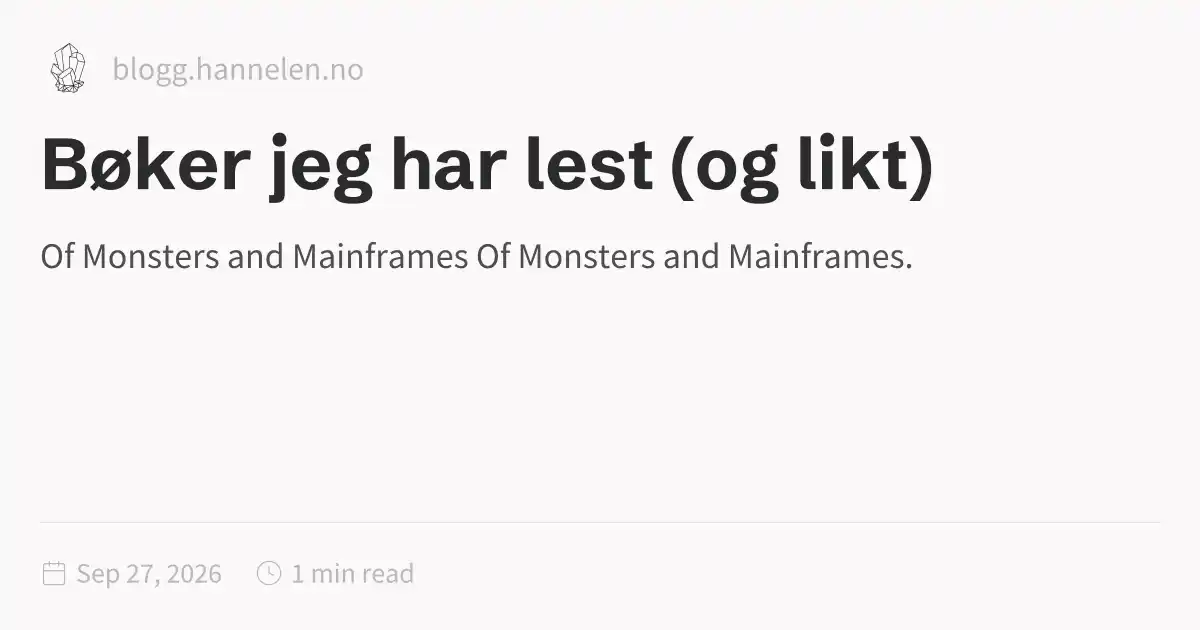
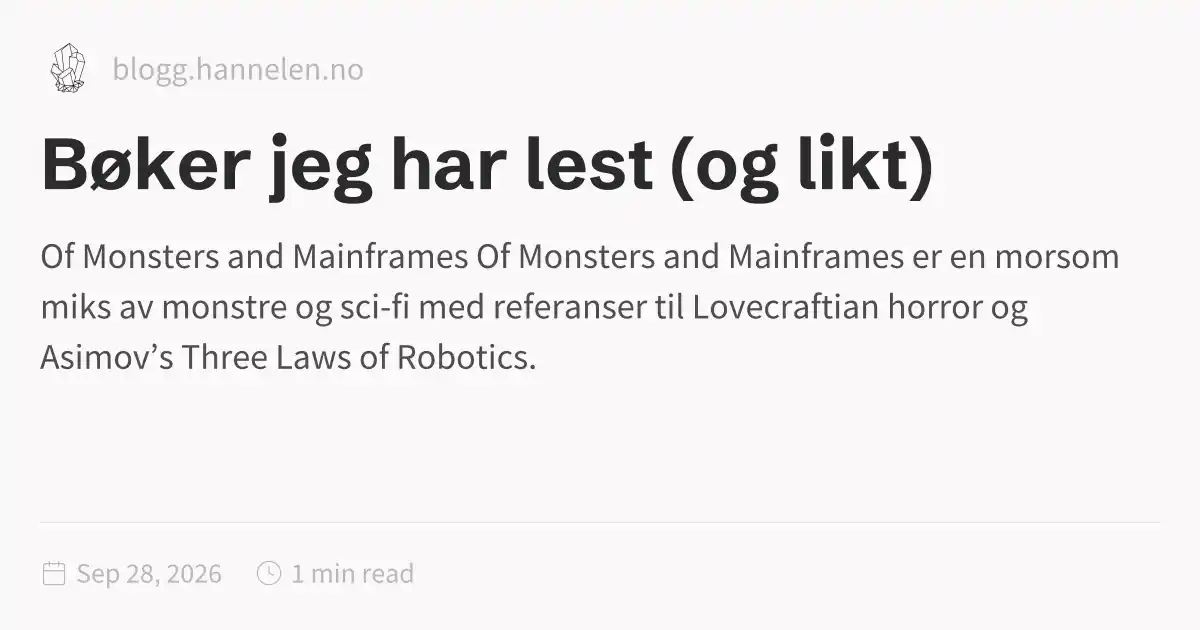
Updates

Changed region(s): [[0.0308, 0.4524, 0.8633, 0.5127], [0.0308, 0.5429, 0.4317, 0.6032], [0.74, 0.3921, 0.925, 0.4222]]

diff --git a/bøker-jeg-har-lest-(og-likt).html b/bøker-jeg-har-lest-(og-likt).html
@@ -1,7 +1,8 @@
 <!DOCTYPE html>
-<html lang="en" dir="ltr"><head><title>Bøker jeg har lest (og likt)</title><meta charset="utf-8"/><link rel="preload" href="./index-bb6c1746.css" as="style"/><link rel="preload" href="./prescript-2bfc6315.js" as="script"/><link rel="preconnect" href="https://fonts.googleapis.com"/><link rel="preconnect" href="https://fonts.gstatic.com"/><link rel="stylesheet" href="https://fonts.googleapis.com/css2?family=Schibsted Grotesk:wght@400;700&amp;family=Source Sans Pro:ital,wght@0,400;0,600;1,400;1,600&amp;family=IBM Plex Mono:wght@400;600&amp;display=swap"/><link rel="preconnect" href="https://cdnjs.cloudflare.com" crossorigin="anonymous"/><meta name="viewport" content="width=device-width, initial-scale=1.0"/><meta name="og:site_name" content="Quartz 5"/><meta property="og:title" content="Bøker jeg har lest (og likt)"/><meta property="og:type" content="website"/><meta name="twitter:card" content="summary_large_image"/><meta name="twitter:title" content="Bøker jeg har lest (og likt)"/><meta name="twitter:description" content="Of Monsters and Mainframes Of Monsters and Mainframes."/><meta property="og:description" content="Of Monsters and Mainframes Of Monsters and Mainframes."/><meta property="og:image:alt" content="Of Monsters and Mainframes Of Monsters and Mainframes."/><meta property="twitter:domain" content="blogg.hannelen.no"/><meta property="og:url" content="https://blogg.hannelen.no/bøker-jeg-har-lest-(og-likt)"/><meta property="twitter:url" content="https://blogg.hannelen.no/bøker-jeg-har-lest-(og-likt)"/><link rel="icon" href="./static/icon.png"/><meta name="description" content="Of Monsters and Mainframes Of Monsters and Mainframes."/><meta name="generator" content="Quartz"/><link href="./index-bb6c1746.css" rel="stylesheet" type="text/css" data-persist="true"/><link href="./component-735924e0.css" rel="stylesheet" type="text/css" data-persist="true"/><link href="./component-589c1cea.css" rel="stylesheet" type="text/css" data-persist="true"/><link href="./component-bbc3f7c0.css" rel="stylesheet" type="text/css" data-persist="true"/><link href="./component-2911f5d1.css" rel="stylesheet" type="text/css" data-persist="true"/><link href="./component-e427079e.css" rel="stylesheet" type="text/css" data-persist="true"/><link href="./component-53b25b2b.css" rel="stylesheet" type="text/css" data-persist="true"/><link href="./component-c93c6a44.css" rel="stylesheet" type="text/css" data-persist="true"/><link href="./component-8a06014f.css" rel="stylesheet" type="text/css" data-persist="true"/><link href="./component-77d6a441.css" rel="stylesheet" type="text/css" data-persist="true"/><link href="./component-6ee21cee.css" rel="stylesheet" type="text/css" data-persist="true"/><link href="./component-1ea6ad18.css" rel="stylesheet" type="text/css" data-persist="true"/><link href="./component-34bdfded.css" rel="stylesheet" type="text/css" data-persist="true"/><link href="./component-788c9ca3.css" rel="stylesheet" type="text/css" data-persist="true"/><link href="./component-642859cd.css" rel="stylesheet" type="text/css" data-persist="true"/><link href="./component-4abc06bd.css" rel="stylesheet" type="text/css" data-persist="true"/><link href="./component-274a3dfe.css" rel="stylesheet" type="text/css" data-persist="true"/><link href="./component-94cb6c84.css" rel="stylesheet" type="text/css" data-persist="true"/><link href="./component-58d5ff56.css" rel="stylesheet" type="text/css" data-persist="true"/><link href="./component-7262b5a7.css" rel="stylesheet" type="text/css" data-persist="true"/><link href="./static/resource-style-11d41004.css" rel="stylesheet" type="text/css" data-persist="true"/><link href="./static/resource-style-26a99b87.css" rel="stylesheet" type="text/css" data-persist="true"/><link href="./static/resource-style-a5c806d2.css" rel="stylesheet" type="text/css" data-persist="true"/><link href="./static/resource-style-6bd36952.css" rel="stylesheet" type="text/css" data-persist="true"/><link href="./static/resource-style-9857b007.css" rel="stylesheet" type="text/css" data-persist="true"/><link href="./static/resource-style-d3a1a224.css" rel="stylesheet" type="text/css" data-persist="true"/><link href="https://cdn.jsdelivr.net/npm/katex@0.16.11/dist/katex.min.css" rel="stylesheet" type="text/css" data-persist="true"/><script src="./prescript-2bfc6315.js" type="application/javascript" data-persist="true"></script><script type="application/javascript" data-persist="true">const fetchData = fetch("./static/contentIndex.json").then(data => data.json())</script><link rel="preconnect" href="https://fonts.googleapis.com"/><link rel="preconnect" href="https://fonts.gstatic.com" crossorigin="anonymous"/><link rel="stylesheet" href="https://fonts.googleapis.com/css2?family=Schibsted%20Grotesk%3Awght%40400%3B700&amp;family=Source%20Sans%20Pro%3Aital%2Cwght%400%2C400%3B0%2C600%3B1%2C400%3B1%2C600&amp;family=IBM%20Plex%20Mono%3Awght%40400%3B600&amp;display=swap"/><meta property="og:image:width" content="1200"/><meta property="og:image:height" content="630"/><meta property="og:image" content="https://blogg.hannelen.no/bøker-jeg-har-lest-(og-likt)-og-image.webp"/><meta property="og:image:url" content="https://blogg.hannelen.no/bøker-jeg-har-lest-(og-likt)-og-image.webp"/><meta name="twitter:image" content="https://blogg.hannelen.no/bøker-jeg-har-lest-(og-likt)-og-image.webp"/><meta property="og:image:type" content="image/webp"/></head><body data-slug="bøker-jeg-har-lest-(og-likt)" data-basepath><div id="quartz-root" class="page" data-frame="default"><div id="quartz-body"><div class="left sidebar"><h2 class="page-title"><a href=".">Quartz 5</a></h2><div class="mobile-only"><div class="spacer"></div></div><div class="flex-component" style="flex-direction: row; flex-wrap: nowrap; gap: 0.5rem;"><div style="flex-grow: 1; flex-shrink: 1; flex-basis: auto; order: 0; align-self: center; justify-self: center;"><div class="search"><button class="search-button" aria-label="Search" aria-expanded="false"><svg role="img" xmlns="http://www.w3.org/2000/svg" viewBox="0 0 19.9 19.7"><title>Search</title><g class="search-path" fill="none"><path stroke-linecap="square" d="M18.5 18.3l-5.4-5.4"></path><circle cx="8" cy="8" r="7"></circle></g></svg><p>Search</p></button><div class="search-container"><div class="search-space"><input autocomplete="off" class="search-bar" name="search" type="text" aria-label="Search for something..." placeholder="Search for something..."/><div class="search-layout" data-preview="true" data-field-priority="[&quot;title&quot;,&quot;content&quot;,&quot;tags&quot;]"></div></div></div></div></div><div style="flex-grow: 0; flex-shrink: 1; flex-basis: auto; order: 0; align-self: center; justify-self: center;"><button class="darkmode" aria-label="Dark mode"><svg xmlns="http://www.w3.org/2000/svg" xmlns:xlink="http://www.w3.org/1999/xlink" version="1.1" class="dayIcon" x="0px" y="0px" viewBox="0 0 35 35" style="enable-background:new 0 0 35 35" xml:space="preserve" aria-label="Dark mode"><title>Dark mode</title><path d="M6,17.5C6,16.672,5.328,16,4.5,16h-3C0.672,16,0,16.672,0,17.5    S0.672,19,1.5,19h3C5.328,19,6,18.328,6,17.5z M7.5,26c-0.414,0-0.789,0.168-1.061,0.439l-2,2C4.168,28.711,4,29.086,4,29.5    C4,30.328,4.671,31,5.5,31c0.414,0,0.789-0.168,1.06-0.44l2-2C8.832,28.289,9,27.914,9,27.5C9,26.672,8.329,26,7.5,26z M17.5,6    C18.329,6,19,5.328,19,4.5v-3C19,0.672,18.329,0,17.5,0S16,0.672,16,1.5v3C16,5.328,16.671,6,17.5,6z M27.5,9    c0.414,0,0.789-0.168,1.06-0.439l2-2C30.832,6.289,31,5.914,31,5.5C31,4.672,30.329,4,29.5,4c-0.414,0-0.789,0.168-1.061,0.44    l-2,2C26.168,6.711,26,7.086,26,7.5C26,8.328,26.671,9,27.5,9z M6.439,8.561C6.711,8.832,7.086,9,7.5,9C8.328,9,9,8.328,9,7.5    c0-0.414-0.168-0.789-0.439-1.061l-2-2C6.289,4.168,5.914,4,5.5,4C4.672,4,4,4.672,4,5.5c0,0.414,0.168,0.789,0.439,1.06    L6.439,8.561z M33.5,16h-3c-0.828,0-1.5,0.672-1.5,1.5s0.672,1.5,1.5,1.5h3c0.828,0,1.5-0.672,1.5-1.5S34.328,16,33.5,16z     M28.561,26.439C28.289,26.168,27.914,26,27.5,26c-0.828,0-1.5,0.672-1.5,1.5c0,0.414,0.168,0.789,0.439,1.06l2,2    C28.711,30.832,29.086,31,29.5,31c0.828,0,1.5-0.672,1.5-1.5c0-0.414-0.168-0.789-0.439-1.061L28.561,26.439z M17.5,29    c-0.829,0-1.5,0.672-1.5,1.5v3c0,0.828,0.671,1.5,1.5,1.5s1.5-0.672,1.5-1.5v-3C19,29.672,18.329,29,17.5,29z M17.5,7    C11.71,7,7,11.71,7,17.5S11.71,28,17.5,28S28,23.29,28,17.5S23.29,7,17.5,7z M17.5,25c-4.136,0-7.5-3.364-7.5-7.5    c0-4.136,3.364-7.5,7.5-7.5c4.136,0,7.5,3.364,7.5,7.5C25,21.636,21.636,25,17.5,25z"></path></svg><svg xmlns="http://www.w3.org/2000/svg" xmlns:xlink="http://www.w3.org/1999/xlink" version="1.1" class="nightIcon" x="0px" y="0px" viewBox="0 0 100 100" style="enable-background:new 0 0 100 100" xml:space="preserve" aria-label="Light mode"><title>Light mode</title><path d="M96.76,66.458c-0.853-0.852-2.15-1.064-3.23-0.534c-6.063,2.991-12.858,4.571-19.655,4.571  C62.022,70.495,50.88,65.88,42.5,57.5C29.043,44.043,25.658,23.536,34.076,6.47c0.532-1.08,0.318-2.379-0.534-3.23  c-0.851-0.852-2.15-1.064-3.23-0.534c-4.918,2.427-9.375,5.619-13.246,9.491c-9.447,9.447-14.65,22.008-14.65,35.369  c0,13.36,5.203,25.921,14.65,35.368s22.008,14.65,35.368,14.65c13.361,0,25.921-5.203,35.369-14.65  c3.872-3.871,7.064-8.328,9.491-13.246C97.826,68.608,97.611,67.309,96.76,66.458z"></path></svg></button></div><div style="flex-grow: 0; flex-shrink: 1; flex-basis: auto; order: 0; align-self: center; justify-self: center;"><button class="readermode" aria-label="Reader mode"><svg xmlns="http://www.w3.org/2000/svg" xmlns:xlink="http://www.w3.org/1999/xlink" version="1.1" class="readerIcon" fill="currentColor" stroke="currentColor" stroke-width="0.2" stroke-linecap="round" stroke-linejoin="round" width="64px" height="64px" viewBox="0 0 24 24" aria-label="Reader mode"><title>Reader mode</title><g transform="translate(-1.8, -1.8) scale(1.15, 1.2)"><path d="M8.9891247,2.5 C10.1384702,2.5 11.2209868,2.96705384 12.0049645,3.76669482 C12.7883914,2.96705384 13.8709081,2.5 15.0202536,2.5 L18.7549359,2.5 C19.1691495,2.5 19.5049359,2.83578644 19.5049359,3.25 L19.5046891,4.004 L21.2546891,4.00457396 C21.6343849,4.00457396 21.9481801,4.28672784 21.9978425,4.6528034 L22.0046891,4.75457396 L22.0046891,20.25 C22.0046891,20.6296958 21.7225353,20.943491 21.3564597,20.9931534 L21.2546891,21 L2.75468914,21 C2.37499337,21 2.06119817,20.7178461 2.01153575,20.3517706 L2.00468914,20.25 L2.00468914,4.75457396 C2.00468914,4.37487819 2.28684302,4.061083 2.65291858,4.01142057 L2.75468914,4.00457396 L4.50368914,4.004 L4.50444233,3.25 C4.50444233,2.87030423 4.78659621,2.55650904 5.15267177,2.50684662 L5.25444233,2.5 L8.9891247,2.5 Z M4.50368914,5.504 L3.50468914,5.504 L3.50468914,19.5 L10.9478955,19.4998273 C10.4513189,18.9207296 9.73864328,18.5588115 8.96709342,18.5065584 L8.77307039,18.5 L5.25444233,18.5 C4.87474657,18.5 4.56095137,18.2178461 4.51128895,17.8517706 L4.50444233,17.75 L4.50368914,5.504 Z M19.5049359,17.75 C19.5049359,18.1642136 19.1691495,18.5 18.7549359,18.5 L15.2363079,18.5 C14.3910149,18.5 13.5994408,18.8724714 13.0614828,19.4998273 L20.5046891,19.5 L20.5046891,5.504 L19.5046891,5.504 L19.5049359,17.75 Z M18.0059359,3.999 L15.0202536,4 L14.8259077,4.00692283 C13.9889509,4.06666544 13.2254227,4.50975805 12.7549359,5.212 L12.7549359,17.777 L12.7782651,17.7601316 C13.4923805,17.2719483 14.3447024,17 15.2363079,17 L18.0059359,16.999 L18.0056891,4.798 L18.0033792,4.75457396 L18.0056891,4.71 L18.0059359,3.999 Z M8.9891247,4 L6.00368914,3.999 L6.00599909,4.75457396 L6.00599909,4.75457396 L6.00368914,4.783 L6.00368914,16.999 L8.77307039,17 C9.57551536,17 10.3461406,17.2202781 11.0128313,17.6202194 L11.2536891,17.776 L11.2536891,5.211 C10.8200889,4.56369974 10.1361548,4.13636104 9.37521067,4.02745763 L9.18347055,4.00692283 L8.9891247,4 Z"></path></g></svg></button></div></div><div class="explorer nav-files-container" data-behavior="link" data-collapsed="collapsed" data-savestate="true" data-data-fns="{&quot;order&quot;:[&quot;filter&quot;,&quot;map&quot;,&quot;sort&quot;],&quot;sortFn&quot;:&quot;(a2, b2) => {\n    if (!a2.isFolder &amp;&amp; !b2.isFolder || a2.isFolder &amp;&amp; b2.isFolder) {\n      return (a2.displayName || \&quot;\&quot;).localeCompare(b2.displayName || \&quot;\&quot;, void 0, {\n        numeric: true,\n        sensitivity: \&quot;base\&quot;\n      });\n    }\n    if (!a2.isFolder &amp;&amp; b2.isFolder) {\n      return 1;\n    }\n    return -1;\n  }&quot;,&quot;filterFn&quot;:&quot;(node) => node.slugSegment !== \&quot;tags\&quot;&quot;,&quot;mapFn&quot;:&quot;(node) => {\n    return node;\n  }&quot;}"><button type="button" class="explorer-toggle mobile-explorer hide-until-loaded" data-mobile="true" aria-controls="explorer-0" aria-label="Explorer"><svg xmlns="http://www.w3.org/2000/svg" width="24" height="24" viewBox="0 0 24 24" stroke-width="2" stroke-linecap="round" stroke-linejoin="round" class="lucide-menu"><line x1="4" x2="20" y1="12" y2="12"></line><line x1="4" x2="20" y1="6" y2="6"></line><line x1="4" x2="20" y1="18" y2="18"></line></svg></button><button type="button" class="title-button explorer-toggle desktop-explorer" data-mobile="false" aria-expanded="true"><h2>Explorer</h2><svg xmlns="http://www.w3.org/2000/svg" width="14" height="14" viewBox="5 8 14 8" fill="none" stroke="currentColor" stroke-width="2" stroke-linecap="round" stroke-linejoin="round" class="fold"><polyline points="6 9 12 15 18 9"></polyline></svg></button><div id="explorer-0" class="explorer-content" aria-expanded="false" role="group"><ul class="explorer-ul overflow" id="list-0"><li class="overflow-end"></li></ul></div><template id="template-file"><li><a href="#" class="nav-file-title tree-item-self"></a></li></template><template id="template-folder"><li><div class="folder-container nav-folder-title tree-item-self"><svg xmlns="http://www.w3.org/2000/svg" width="12" height="12" viewBox="5 8 14 8" fill="none" stroke="currentColor" stroke-width="2" stroke-linecap="round" stroke-linejoin="round" class="folder-icon nav-folder-collapse-indicator collapse-icon"><polyline points="6 9 12 15 18 9"></polyline></svg><div><button class="folder-button"><span class="folder-title"></span></button></div></div><div class="folder-outer"><ul class="content tree-item-children"></ul></div></li></template></div></div><div class="center"><div class="page-header"><div class="popover-hint"><nav class="breadcrumb-container" aria-label="breadcrumbs"><div class="breadcrumb-element"><a href="./">Home</a><p> ❯ </p></div><div class="breadcrumb-element"><a href>Bøker jeg har lest (og likt)</a></div></nav><h1 class="article-title">Bøker jeg har lest (og likt)</h1><p show-comma="true" class="content-meta"><time datetime="2026-09-27T21:20:22.942Z">Sep 27, 2026</time><span>1 min read</span></p></div></div><article class="popover-hint"><div class="markdown-preview-view markdown-rendered"><h3 id="of-monsters-and-mainframes">Of Monsters and Mainframes<a role="anchor" aria-hidden="true" tabindex="-1" data-no-popover="true" href="#of-monsters-and-mainframes" class="internal internal-link"><svg width="18" height="18" viewBox="0 0 24 24" fill="none" stroke="currentColor" stroke-width="2" stroke-linecap="round" stroke-linejoin="round"><path d="M10 13a5 5 0 0 0 7.54.54l3-3a5 5 0 0 0-7.07-7.07l-1.72 1.71"></path><path d="M14 11a5 5 0 0 0-7.54-.54l-3 3a5 5 0 0 0 7.07 7.07l1.71-1.71"></path></svg></a></h3>
-<p><img src="./vedlegg/ofmonstersandmainframes.jpg" alt width="auto" height="auto"/></p>
-<p><a href="./www.goodreads.com/en/book/show/216540053-of-monsters-and-mainframes" class="internal internal-link alias" data-slug="www.goodreads.com/en/book/show/216540053-of-monsters-and-mainframes">Of Monsters and Mainframes</a></p></div></article><hr/><div class="page-footer"></div></div><div class="right sidebar"><div class="graph"><h3>Graph View</h3><div class="graph-outer"><div class="graph-container" data-cfg="{&quot;drag&quot;:true,&quot;zoom&quot;:true,&quot;depth&quot;:1,&quot;scale&quot;:1.1,&quot;repelForce&quot;:0.5,&quot;centerForce&quot;:0.3,&quot;linkDistance&quot;:30,&quot;fontSize&quot;:0.6,&quot;opacityScale&quot;:1,&quot;showTags&quot;:true,&quot;removeTags&quot;:[],&quot;focusOnHover&quot;:false,&quot;enableRadial&quot;:false}"></div><button class="global-graph-icon" aria-label="Global Graph"><svg version="1.1" xmlns="http://www.w3.org/2000/svg" xmlns:xlink="http://www.w3.org/1999/xlink" x="0px" y="0px" viewBox="0 0 55 55" fill="currentColor" xml:space="preserve"><path d="M49,0c-3.309,0-6,2.691-6,6c0,1.035,0.263,2.009,0.726,2.86l-9.829,9.829C32.542,17.634,30.846,17,29,17
+<html lang="en" dir="ltr"><head><title>Bøker jeg har lest (og likt)</title><meta charset="utf-8"/><link rel="preload" href="./index-bb6c1746.css" as="style"/><link rel="preload" href="./prescript-2bfc6315.js" as="script"/><link rel="preconnect" href="https://fonts.googleapis.com"/><link rel="preconnect" href="https://fonts.gstatic.com"/><link rel="stylesheet" href="https://fonts.googleapis.com/css2?family=Schibsted Grotesk:wght@400;700&amp;family=Source Sans Pro:ital,wght@0,400;0,600;1,400;1,600&amp;family=IBM Plex Mono:wght@400;600&amp;display=swap"/><link rel="preconnect" href="https://cdnjs.cloudflare.com" crossorigin="anonymous"/><meta name="viewport" content="width=device-width, initial-scale=1.0"/><meta name="og:site_name" content="Quartz 5"/><meta property="og:title" content="Bøker jeg har lest (og likt)"/><meta property="og:type" content="website"/><meta name="twitter:card" content="summary_large_image"/><meta name="twitter:title" content="Bøker jeg har lest (og likt)"/><meta name="twitter:description" content="Of Monsters and Mainframes Of Monsters and Mainframes er en morsom miks av monstre og sci-fi med referanser til Lovecraftian horror og Asimov’s Three Laws of Robotics."/><meta property="og:description" content="Of Monsters and Mainframes Of Monsters and Mainframes er en morsom miks av monstre og sci-fi med referanser til Lovecraftian horror og Asimov’s Three Laws of Robotics."/><meta property="og:image:alt" content="Of Monsters and Mainframes Of Monsters and Mainframes er en morsom miks av monstre og sci-fi med referanser til Lovecraftian horror og Asimov’s Three Laws of Robotics."/><meta property="twitter:domain" content="blogg.hannelen.no"/><meta property="og:url" content="https://blogg.hannelen.no/bøker-jeg-har-lest-(og-likt)"/><meta property="twitter:url" content="https://blogg.hannelen.no/bøker-jeg-har-lest-(og-likt)"/><link rel="icon" href="./static/icon.png"/><meta name="description" content="Of Monsters and Mainframes Of Monsters and Mainframes er en morsom miks av monstre og sci-fi med referanser til Lovecraftian horror og Asimov’s Three Laws of Robotics."/><meta name="generator" content="Quartz"/><link href="./index-bb6c1746.css" rel="stylesheet" type="text/css" data-persist="true"/><link href="./component-735924e0.css" rel="stylesheet" type="text/css" data-persist="true"/><link href="./component-589c1cea.css" rel="stylesheet" type="text/css" data-persist="true"/><link href="./component-bbc3f7c0.css" rel="stylesheet" type="text/css" data-persist="true"/><link href="./component-2911f5d1.css" rel="stylesheet" type="text/css" data-persist="true"/><link href="./component-e427079e.css" rel="stylesheet" type="text/css" data-persist="true"/><link href="./component-53b25b2b.css" rel="stylesheet" type="text/css" data-persist="true"/><link href="./component-c93c6a44.css" rel="stylesheet" type="text/css" data-persist="true"/><link href="./component-8a06014f.css" rel="stylesheet" type="text/css" data-persist="true"/><link href="./component-77d6a441.css" rel="stylesheet" type="text/css" data-persist="true"/><link href="./component-6ee21cee.css" rel="stylesheet" type="text/css" data-persist="true"/><link href="./component-1ea6ad18.css" rel="stylesheet" type="text/css" data-persist="true"/><link href="./component-34bdfded.css" rel="stylesheet" type="text/css" data-persist="true"/><link href="./component-788c9ca3.css" rel="stylesheet" type="text/css" data-persist="true"/><link href="./component-642859cd.css" rel="stylesheet" type="text/css" data-persist="true"/><link href="./component-4abc06bd.css" rel="stylesheet" type="text/css" data-persist="true"/><link href="./component-274a3dfe.css" rel="stylesheet" type="text/css" data-persist="true"/><link href="./component-94cb6c84.css" rel="stylesheet" type="text/css" data-persist="true"/><link href="./component-58d5ff56.css" rel="stylesheet" type="text/css" data-persist="true"/><link href="./component-7262b5a7.css" rel="stylesheet" type="text/css" data-persist="true"/><link href="./static/resource-style-11d41004.css" rel="stylesheet" type="text/css" data-persist="true"/><link href="./static/resource-style-26a99b87.css" rel="stylesheet" type="text/css" data-persist="true"/><link href="./static/resource-style-a5c806d2.css" rel="stylesheet" type="text/css" data-persist="true"/><link href="./static/resource-style-6bd36952.css" rel="stylesheet" type="text/css" data-persist="true"/><link href="./static/resource-style-9857b007.css" rel="stylesheet" type="text/css" data-persist="true"/><link href="./static/resource-style-d3a1a224.css" rel="stylesheet" type="text/css" data-persist="true"/><link href="https://cdn.jsdelivr.net/npm/katex@0.16.11/dist/katex.min.css" rel="stylesheet" type="text/css" data-persist="true"/><script src="./prescript-2bfc6315.js" type="application/javascript" data-persist="true"></script><script type="application/javascript" data-persist="true">const fetchData = fetch("./static/contentIndex.json").then(data => data.json())</script><link rel="preconnect" href="https://fonts.googleapis.com"/><link rel="preconnect" href="https://fonts.gstatic.com" crossorigin="anonymous"/><link rel="stylesheet" href="https://fonts.googleapis.com/css2?family=Schibsted%20Grotesk%3Awght%40400%3B700&amp;family=Source%20Sans%20Pro%3Aital%2Cwght%400%2C400%3B0%2C600%3B1%2C400%3B1%2C600&amp;family=IBM%20Plex%20Mono%3Awght%40400%3B600&amp;display=swap"/><meta property="og:image:width" content="1200"/><meta property="og:image:height" content="630"/><meta property="og:image" content="https://blogg.hannelen.no/bøker-jeg-har-lest-(og-likt)-og-image.webp"/><meta property="og:image:url" content="https://blogg.hannelen.no/bøker-jeg-har-lest-(og-likt)-og-image.webp"/><meta name="twitter:image" content="https://blogg.hannelen.no/bøker-jeg-har-lest-(og-likt)-og-image.webp"/><meta property="og:image:type" content="image/webp"/></head><body data-slug="bøker-jeg-har-lest-(og-likt)" data-basepath><div id="quartz-root" class="page" data-frame="default"><div id="quartz-body"><div class="left sidebar"><h2 class="page-title"><a href=".">Quartz 5</a></h2><div class="mobile-only"><div class="spacer"></div></div><div class="flex-component" style="flex-direction: row; flex-wrap: nowrap; gap: 0.5rem;"><div style="flex-grow: 1; flex-shrink: 1; flex-basis: auto; order: 0; align-self: center; justify-self: center;"><div class="search"><button class="search-button" aria-label="Search" aria-expanded="false"><svg role="img" xmlns="http://www.w3.org/2000/svg" viewBox="0 0 19.9 19.7"><title>Search</title><g class="search-path" fill="none"><path stroke-linecap="square" d="M18.5 18.3l-5.4-5.4"></path><circle cx="8" cy="8" r="7"></circle></g></svg><p>Search</p></button><div class="search-container"><div class="search-space"><input autocomplete="off" class="search-bar" name="search" type="text" aria-label="Search for something..." placeholder="Search for something..."/><div class="search-layout" data-preview="true" data-field-priority="[&quot;title&quot;,&quot;content&quot;,&quot;tags&quot;]"></div></div></div></div></div><div style="flex-grow: 0; flex-shrink: 1; flex-basis: auto; order: 0; align-self: center; justify-self: center;"><button class="darkmode" aria-label="Dark mode"><svg xmlns="http://www.w3.org/2000/svg" xmlns:xlink="http://www.w3.org/1999/xlink" version="1.1" class="dayIcon" x="0px" y="0px" viewBox="0 0 35 35" style="enable-background:new 0 0 35 35" xml:space="preserve" aria-label="Dark mode"><title>Dark mode</title><path d="M6,17.5C6,16.672,5.328,16,4.5,16h-3C0.672,16,0,16.672,0,17.5    S0.672,19,1.5,19h3C5.328,19,6,18.328,6,17.5z M7.5,26c-0.414,0-0.789,0.168-1.061,0.439l-2,2C4.168,28.711,4,29.086,4,29.5    C4,30.328,4.671,31,5.5,31c0.414,0,0.789-0.168,1.06-0.44l2-2C8.832,28.289,9,27.914,9,27.5C9,26.672,8.329,26,7.5,26z M17.5,6    C18.329,6,19,5.328,19,4.5v-3C19,0.672,18.329,0,17.5,0S16,0.672,16,1.5v3C16,5.328,16.671,6,17.5,6z M27.5,9    c0.414,0,0.789-0.168,1.06-0.439l2-2C30.832,6.289,31,5.914,31,5.5C31,4.672,30.329,4,29.5,4c-0.414,0-0.789,0.168-1.061,0.44    l-2,2C26.168,6.711,26,7.086,26,7.5C26,8.328,26.671,9,27.5,9z M6.439,8.561C6.711,8.832,7.086,9,7.5,9C8.328,9,9,8.328,9,7.5    c0-0.414-0.168-0.789-0.439-1.061l-2-2C6.289,4.168,5.914,4,5.5,4C4.672,4,4,4.672,4,5.5c0,0.414,0.168,0.789,0.439,1.06    L6.439,8.561z M33.5,16h-3c-0.828,0-1.5,0.672-1.5,1.5s0.672,1.5,1.5,1.5h3c0.828,0,1.5-0.672,1.5-1.5S34.328,16,33.5,16z     M28.561,26.439C28.289,26.168,27.914,26,27.5,26c-0.828,0-1.5,0.672-1.5,1.5c0,0.414,0.168,0.789,0.439,1.06l2,2    C28.711,30.832,29.086,31,29.5,31c0.828,0,1.5-0.672,1.5-1.5c0-0.414-0.168-0.789-0.439-1.061L28.561,26.439z M17.5,29    c-0.829,0-1.5,0.672-1.5,1.5v3c0,0.828,0.671,1.5,1.5,1.5s1.5-0.672,1.5-1.5v-3C19,29.672,18.329,29,17.5,29z M17.5,7    C11.71,7,7,11.71,7,17.5S11.71,28,17.5,28S28,23.29,28,17.5S23.29,7,17.5,7z M17.5,25c-4.136,0-7.5-3.364-7.5-7.5    c0-4.136,3.364-7.5,7.5-7.5c4.136,0,7.5,3.364,7.5,7.5C25,21.636,21.636,25,17.5,25z"></path></svg><svg xmlns="http://www.w3.org/2000/svg" xmlns:xlink="http://www.w3.org/1999/xlink" version="1.1" class="nightIcon" x="0px" y="0px" viewBox="0 0 100 100" style="enable-background:new 0 0 100 100" xml:space="preserve" aria-label="Light mode"><title>Light mode</title><path d="M96.76,66.458c-0.853-0.852-2.15-1.064-3.23-0.534c-6.063,2.991-12.858,4.571-19.655,4.571  C62.022,70.495,50.88,65.88,42.5,57.5C29.043,44.043,25.658,23.536,34.076,6.47c0.532-1.08,0.318-2.379-0.534-3.23  c-0.851-0.852-2.15-1.064-3.23-0.534c-4.918,2.427-9.375,5.619-13.246,9.491c-9.447,9.447-14.65,22.008-14.65,35.369  c0,13.36,5.203,25.921,14.65,35.368s22.008,14.65,35.368,14.65c13.361,0,25.921-5.203,35.369-14.65  c3.872-3.871,7.064-8.328,9.491-13.246C97.826,68.608,97.611,67.309,96.76,66.458z"></path></svg></button></div><div style="flex-grow: 0; flex-shrink: 1; flex-basis: auto; order: 0; align-self: center; justify-self: center;"><button class="readermode" aria-label="Reader mode"><svg xmlns="http://www.w3.org/2000/svg" xmlns:xlink="http://www.w3.org/1999/xlink" version="1.1" class="readerIcon" fill="currentColor" stroke="currentColor" stroke-width="0.2" stroke-linecap="round" stroke-linejoin="round" width="64px" height="64px" viewBox="0 0 24 24" aria-label="Reader mode"><title>Reader mode</title><g transform="translate(-1.8, -1.8) scale(1.15, 1.2)"><path d="M8.9891247,2.5 C10.1384702,2.5 11.2209868,2.96705384 12.0049645,3.76669482 C12.7883914,2.96705384 13.8709081,2.5 15.0202536,2.5 L18.7549359,2.5 C19.1691495,2.5 19.5049359,2.83578644 19.5049359,3.25 L19.5046891,4.004 L21.2546891,4.00457396 C21.6343849,4.00457396 21.9481801,4.28672784 21.9978425,4.6528034 L22.0046891,4.75457396 L22.0046891,20.25 C22.0046891,20.6296958 21.7225353,20.943491 21.3564597,20.9931534 L21.2546891,21 L2.75468914,21 C2.37499337,21 2.06119817,20.7178461 2.01153575,20.3517706 L2.00468914,20.25 L2.00468914,4.75457396 C2.00468914,4.37487819 2.28684302,4.061083 2.65291858,4.01142057 L2.75468914,4.00457396 L4.50368914,4.004 L4.50444233,3.25 C4.50444233,2.87030423 4.78659621,2.55650904 5.15267177,2.50684662 L5.25444233,2.5 L8.9891247,2.5 Z M4.50368914,5.504 L3.50468914,5.504 L3.50468914,19.5 L10.9478955,19.4998273 C10.4513189,18.9207296 9.73864328,18.5588115 8.96709342,18.5065584 L8.77307039,18.5 L5.25444233,18.5 C4.87474657,18.5 4.56095137,18.2178461 4.51128895,17.8517706 L4.50444233,17.75 L4.50368914,5.504 Z M19.5049359,17.75 C19.5049359,18.1642136 19.1691495,18.5 18.7549359,18.5 L15.2363079,18.5 C14.3910149,18.5 13.5994408,18.8724714 13.0614828,19.4998273 L20.5046891,19.5 L20.5046891,5.504 L19.5046891,5.504 L19.5049359,17.75 Z M18.0059359,3.999 L15.0202536,4 L14.8259077,4.00692283 C13.9889509,4.06666544 13.2254227,4.50975805 12.7549359,5.212 L12.7549359,17.777 L12.7782651,17.7601316 C13.4923805,17.2719483 14.3447024,17 15.2363079,17 L18.0059359,16.999 L18.0056891,4.798 L18.0033792,4.75457396 L18.0056891,4.71 L18.0059359,3.999 Z M8.9891247,4 L6.00368914,3.999 L6.00599909,4.75457396 L6.00599909,4.75457396 L6.00368914,4.783 L6.00368914,16.999 L8.77307039,17 C9.57551536,17 10.3461406,17.2202781 11.0128313,17.6202194 L11.2536891,17.776 L11.2536891,5.211 C10.8200889,4.56369974 10.1361548,4.13636104 9.37521067,4.02745763 L9.18347055,4.00692283 L8.9891247,4 Z"></path></g></svg></button></div></div><div class="explorer nav-files-container" data-behavior="link" data-collapsed="collapsed" data-savestate="true" data-data-fns="{&quot;order&quot;:[&quot;filter&quot;,&quot;map&quot;,&quot;sort&quot;],&quot;sortFn&quot;:&quot;(a2, b2) => {\n    if (!a2.isFolder &amp;&amp; !b2.isFolder || a2.isFolder &amp;&amp; b2.isFolder) {\n      return (a2.displayName || \&quot;\&quot;).localeCompare(b2.displayName || \&quot;\&quot;, void 0, {\n        numeric: true,\n        sensitivity: \&quot;base\&quot;\n      });\n    }\n    if (!a2.isFolder &amp;&amp; b2.isFolder) {\n      return 1;\n    }\n    return -1;\n  }&quot;,&quot;filterFn&quot;:&quot;(node) => node.slugSegment !== \&quot;tags\&quot;&quot;,&quot;mapFn&quot;:&quot;(node) => {\n    return node;\n  }&quot;}"><button type="button" class="explorer-toggle mobile-explorer hide-until-loaded" data-mobile="true" aria-controls="explorer-0" aria-label="Explorer"><svg xmlns="http://www.w3.org/2000/svg" width="24" height="24" viewBox="0 0 24 24" stroke-width="2" stroke-linecap="round" stroke-linejoin="round" class="lucide-menu"><line x1="4" x2="20" y1="12" y2="12"></line><line x1="4" x2="20" y1="6" y2="6"></line><line x1="4" x2="20" y1="18" y2="18"></line></svg></button><button type="button" class="title-button explorer-toggle desktop-explorer" data-mobile="false" aria-expanded="true"><h2>Explorer</h2><svg xmlns="http://www.w3.org/2000/svg" width="14" height="14" viewBox="5 8 14 8" fill="none" stroke="currentColor" stroke-width="2" stroke-linecap="round" stroke-linejoin="round" class="fold"><polyline points="6 9 12 15 18 9"></polyline></svg></button><div id="explorer-0" class="explorer-content" aria-expanded="false" role="group"><ul class="explorer-ul overflow" id="list-0"><li class="overflow-end"></li></ul></div><template id="template-file"><li><a href="#" class="nav-file-title tree-item-self"></a></li></template><template id="template-folder"><li><div class="folder-container nav-folder-title tree-item-self"><svg xmlns="http://www.w3.org/2000/svg" width="12" height="12" viewBox="5 8 14 8" fill="none" stroke="currentColor" stroke-width="2" stroke-linecap="round" stroke-linejoin="round" class="folder-icon nav-folder-collapse-indicator collapse-icon"><polyline points="6 9 12 15 18 9"></polyline></svg><div><button class="folder-button"><span class="folder-title"></span></button></div></div><div class="folder-outer"><ul class="content tree-item-children"></ul></div></li></template></div></div><div class="center"><div class="page-header"><div class="popover-hint"><nav class="breadcrumb-container" aria-label="breadcrumbs"><div class="breadcrumb-element"><a href="./">Home</a><p> ❯ </p></div><div class="breadcrumb-element"><a href>Bøker jeg har lest (og likt)</a></div></nav><h1 class="article-title">Bøker jeg har lest (og likt)</h1><p show-comma="true" class="content-meta"><time datetime="2026-09-27T22:00:05.419Z">Sep 28, 2026</time><span>1 min read</span></p></div></div><article class="popover-hint"><div class="markdown-preview-view markdown-rendered"><h3 id="of-monsters-and-mainframes">Of Monsters and Mainframes<a role="anchor" aria-hidden="true" tabindex="-1" data-no-popover="true" href="#of-monsters-and-mainframes" class="internal internal-link"><svg width="18" height="18" viewBox="0 0 24 24" fill="none" stroke="currentColor" stroke-width="2" stroke-linecap="round" stroke-linejoin="round"><path d="M10 13a5 5 0 0 0 7.54.54l3-3a5 5 0 0 0-7.07-7.07l-1.72 1.71"></path><path d="M14 11a5 5 0 0 0-7.54-.54l-3 3a5 5 0 0 0 7.07 7.07l1.71-1.71"></path></svg></a></h3>
+<p><img src="./vedlegg/ofmonstersandmainframes2.jpg" alt width="auto" height="auto"/></p>
+<p><a href="https://www.goodreads.com/en/book/show/216540053-of-monsters-and-mainframes" class="external external-link">Of Monsters and Mainframes<svg aria-hidden="true" class="external-icon" style="max-width:0.8em;max-height:0.8em;" viewBox="0 0 512 512"><path d="M320 0H288V64h32 82.7L201.4 265.4 178.7 288 224 333.3l22.6-22.6L448 109.3V192v32h64V192 32 0H480 320zM32 32H0V64 480v32H32 456h32V480 352 320H424v32 96H64V96h96 32V32H160 32z"></path></svg></a> er en morsom miks av monstre og sci-fi med referanser til Lovecraftian horror og Asimov’s Three Laws of Robotics.</p>
+<p>Den er 400 sider lang med korte kapitler som går raskt unna når man først har satt seg ned.</p></div></article><hr/><div class="page-footer"></div></div><div class="right sidebar"><div class="graph"><h3>Graph View</h3><div class="graph-outer"><div class="graph-container" data-cfg="{&quot;drag&quot;:true,&quot;zoom&quot;:true,&quot;depth&quot;:1,&quot;scale&quot;:1.1,&quot;repelForce&quot;:0.5,&quot;centerForce&quot;:0.3,&quot;linkDistance&quot;:30,&quot;fontSize&quot;:0.6,&quot;opacityScale&quot;:1,&quot;showTags&quot;:true,&quot;removeTags&quot;:[],&quot;focusOnHover&quot;:false,&quot;enableRadial&quot;:false}"></div><button class="global-graph-icon" aria-label="Global Graph"><svg version="1.1" xmlns="http://www.w3.org/2000/svg" xmlns:xlink="http://www.w3.org/1999/xlink" x="0px" y="0px" viewBox="0 0 55 55" fill="currentColor" xml:space="preserve"><path d="M49,0c-3.309,0-6,2.691-6,6c0,1.035,0.263,2.009,0.726,2.86l-9.829,9.829C32.542,17.634,30.846,17,29,17
                 s-3.542,0.634-4.898,1.688l-7.669-7.669C16.785,10.424,17,9.74,17,9c0-2.206-1.794-4-4-4S9,6.794,9,9s1.794,4,4,4
                 c0.74,0,1.424-0.215,2.019-0.567l7.669,7.669C21.634,21.458,21,23.154,21,25s0.634,3.542,1.688,4.897L10.024,42.562
                 C8.958,41.595,7.549,41,6,41c-3.309,0-6,2.691-6,6s2.691,6,6,6s6-2.691,6-6c0-1.035-0.263-2.009-0.726-2.86l12.829-12.829
